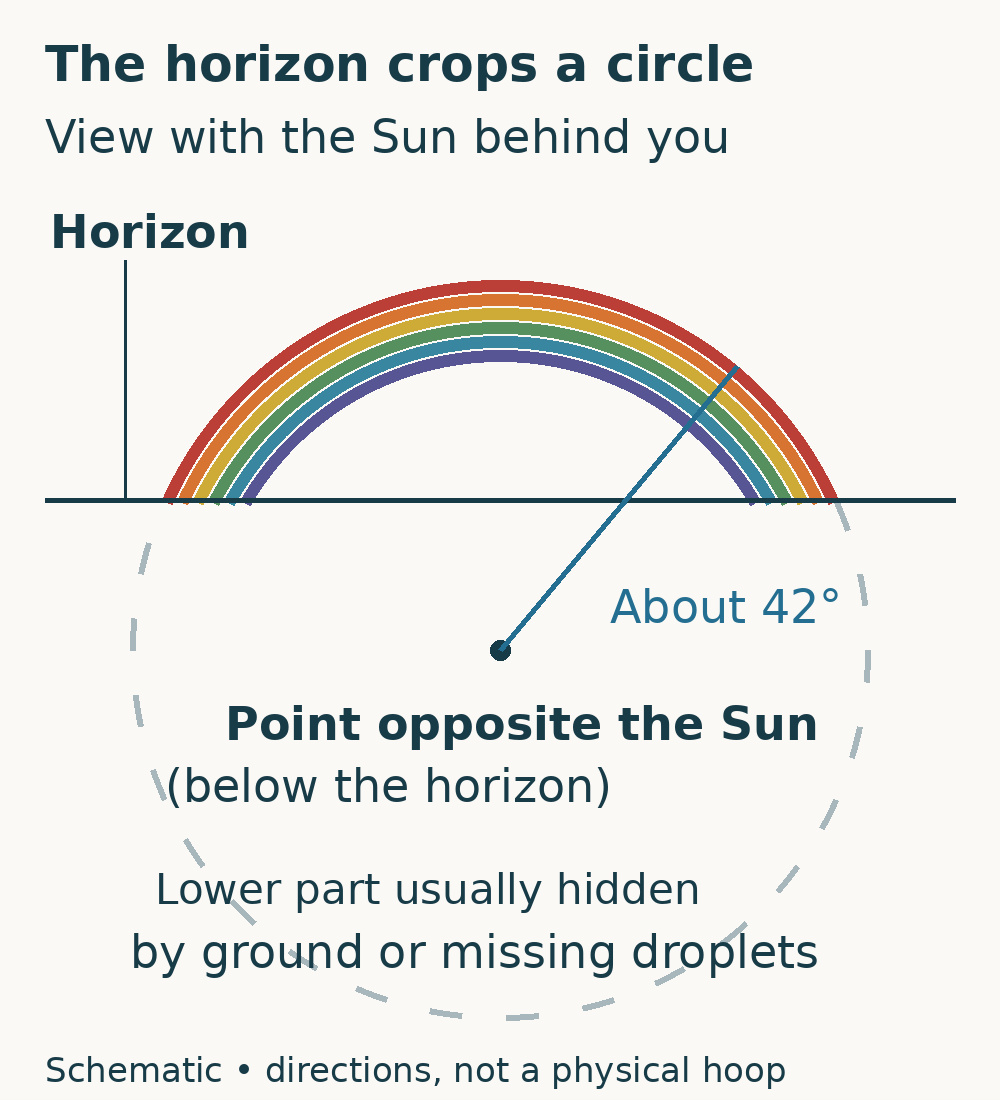
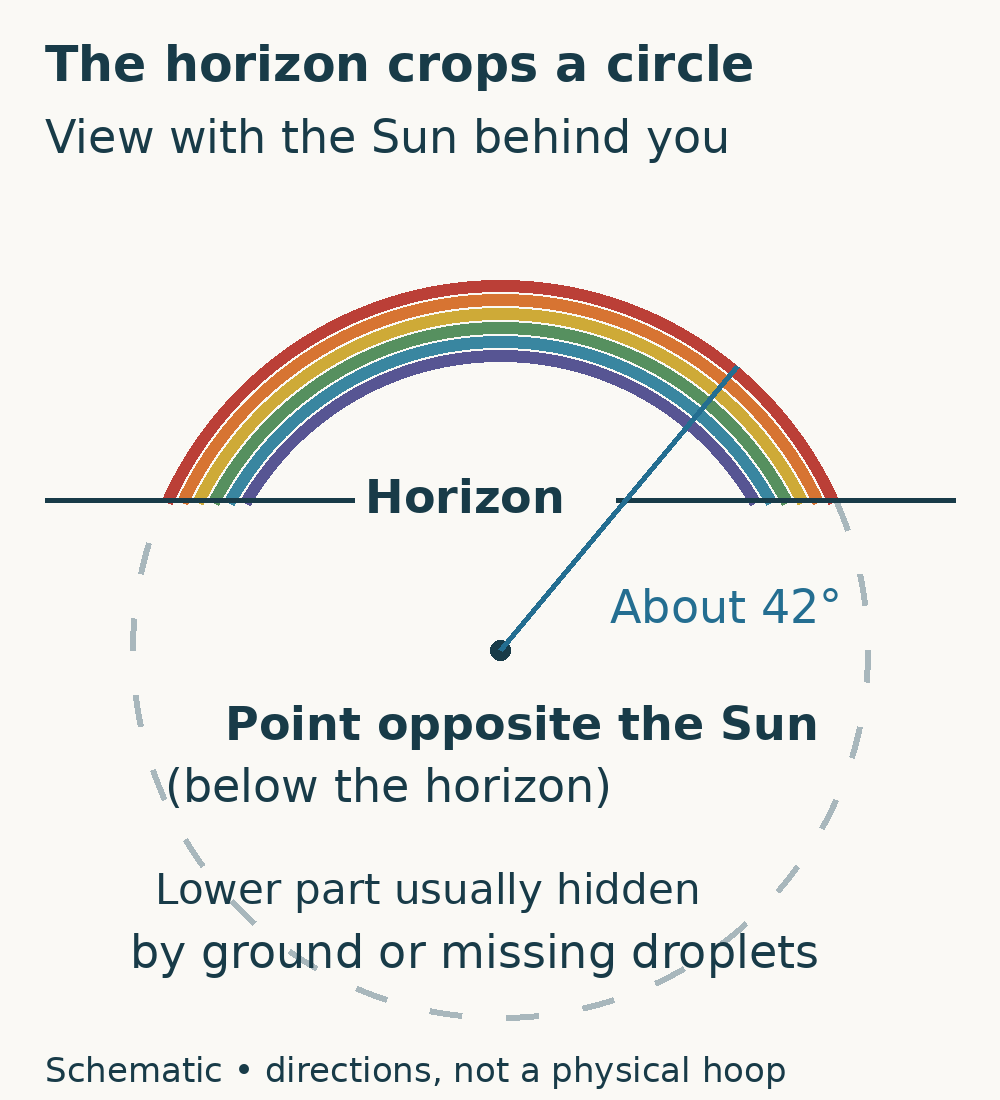
Address review of recovered lessons with ray concentration and clearer figures

Changed region(s): [[0.031, 0.1855, 0.248, 0.2473], [0.341, 0.4327, 0.62, 0.4636]]

diff --git a/src/content/lessons/2026/why-every-rainbow-is-a-circle/teen.md b/src/content/lessons/2026/why-every-rainbow-is-a-circle/teen.md
@@ -3,9 +3,9 @@ title: Why You Cannot Catch the End of a Rainbow
 description: The coloured arch is part of a circle built around your viewpoint, not something standing in a field.
 takeaway: A rainbow follows your viewpoint because your eyes select light arriving at particular angles from water
   droplets.
-question: What would you need to see the lower part of a rainbow’s circle from an aircraft?
-answer: Sunlit water droplets would need to be visible below you at the right viewing angles. Being high up helps,
-  but height alone does not create the missing colours.
+question: Why does moving across a field change which droplets make the rainbow you see?
+answer: The useful viewing angles are measured from your eyes. Moving changes your viewpoint, so a different set
+  of droplets sends the rainbow light towards you.
 searchTerms:
 - rainbow full circle
 - why rainbows move
@@ -26,13 +26,13 @@ figure:
     portion. From an elevated viewpoint a complete circle can be seen if illuminated droplets are present below
     the observer. The ring represents directions, not droplets arranged in a physical hoop.
 activity:
-  prompt: You move sideways while looking at a rainbow. Which explanation fits what happens?
+  prompt: The Sun is behind you on a flight. Does being high above the ground guarantee a full-circle rainbow?
   options:
-  - Different droplets now send rainbow light to your eyes
-  - The same coloured droplets move sideways with you
-  answer: 0
-  explanation: The useful angles are measured from your eyes. Move your eyes and a different set of droplets can
-    send you the right light; the rain does not need to follow you.
+  - Yes, altitude is enough
+  - No, altitude is not enough
+  answer: 1
+  explanation: A full circle also needs sunlit droplets visible below you at the right viewing angles. Height can
+    open the view, but it does not supply those droplets or the light.
 ---
 A rainbow seems to end behind a nearby tree. Could you run round the tree and stand inside the colours?
 

diff --git a/src/content/lessons/2026/why-a-day-is-longer-than-earths-spin/adult.md b/src/content/lessons/2026/why-a-day-is-longer-than-earths-spin/adult.md
@@ -18,14 +18,16 @@ figure:
   width: 1000
   height: 1100
   afterParagraph: 1
-  alt: After one star-relative spin, Earth has moved along its orbit. The same surface marker must turn farther
-    to face the Sun.
-  caption: One spin restores the star alignment. A little more rotation restores solar noon. Orbit advance is greatly
-    exaggerated.
-  description: Top view, not to scale. At the first solar noon a surface marker faces the Sun. Earth then advances
-    along its orbit while making one complete rotation relative to distant stars. The marker points in its original
-    direction, but the Sun now lies in a different direction from Earth. Continuing the rotation brings the marker
-    back into alignment with the Sun. The real extra turn is about one degree, not the large angle drawn.
+  alt: A fixed Sun and two Earth positions show orbital advance. At the second position, one spin leaves the marker
+    misaligned; an extra turn faces the Sun.
+  caption: The Sun stays fixed while Earth advances. Orange marks one full spin; green marks the extra turn back
+    towards the Sun. Orbital advance is greatly exaggerated.
+  description: Top view, not to scale. At position 1, a surface marker faces the fixed Sun at solar noon. Earth
+    advances along the orbital arc to position 2 while making one full rotation relative to distant stars. The orange
+    marker again points left, parallel to its initial direction, but misses the Sun. A further turn brings the green
+    marker into alignment with the Sun. Orange and green at position 2 show successive orientations, not two simultaneous
+    markers. The real daily orbital advance is about one degree; the much larger drawn angle makes the changing
+    alignment visible.
 ---
 Earth finishes a spin in about 23 hours 56 minutes. Your clock still has almost four minutes to run before completing a day. Where did the difference come from?
 

diff --git a/src/content/lessons/2026/why-a-day-is-longer-than-earths-spin/teen.md b/src/content/lessons/2026/why-a-day-is-longer-than-earths-spin/teen.md
@@ -17,14 +17,16 @@ figure:
   width: 1000
   height: 1100
   afterParagraph: 1
-  alt: After one star-relative spin, Earth has moved along its orbit. The same surface marker must turn farther
-    to face the Sun.
-  caption: One spin restores the star alignment. A little more rotation restores solar noon. Orbit advance is greatly
-    exaggerated.
-  description: Top view, not to scale. At the first solar noon a surface marker faces the Sun. Earth then advances
-    along its orbit while making one complete rotation relative to distant stars. The marker points in its original
-    direction, but the Sun now lies in a different direction from Earth. Continuing the rotation brings the marker
-    back into alignment with the Sun. The real extra turn is about one degree, not the large angle drawn.
+  alt: A fixed Sun and two Earth positions show orbital advance. At the second position, one spin leaves the marker
+    misaligned; an extra turn faces the Sun.
+  caption: The Sun stays fixed while Earth advances. Orange marks one full spin; green marks the extra turn back
+    towards the Sun. Orbital advance is greatly exaggerated.
+  description: Top view, not to scale. At position 1, a surface marker faces the fixed Sun at solar noon. Earth
+    advances along the orbital arc to position 2 while making one full rotation relative to distant stars. The orange
+    marker again points left, parallel to its initial direction, but misses the Sun. A further turn brings the green
+    marker into alignment with the Sun. Orange and green at position 2 show successive orientations, not two simultaneous
+    markers. The real daily orbital advance is about one degree; the much larger drawn angle makes the changing
+    alignment visible.
 activity:
   prompt: Imagine Earth kept spinning but no longer travelled around the Sun. What would happen to the gap between
     a spin and a solar day?

diff --git a/src/content/lessons/2026/why-every-rainbow-is-a-circle/adult.md b/src/content/lessons/2026/why-every-rainbow-is-a-circle/adult.md
@@ -34,6 +34,12 @@ Sunlight entering a water droplet bends, reflects inside it and bends again on l
 
 For a primary rainbow, the light reaching your eye is especially concentrated near particular angles: red appears about 42 degrees from the direction directly opposite the Sun, with violet at a slightly smaller angle. The droplets send light in many directions; the rainbow is the bright concentration, not the only light they return.
 
+## Why the light gathers near 42 degrees
+
+Follow parallel rays of one colour into a round droplet, shifting their entry points from the middle towards the edge. After one internal reflection, their exit directions swing farther from the exact backward direction, reach a maximum angle, then swing back. For red light, that turning point is near 42 degrees.
+
+Near the turning point, changing where a ray enters barely changes its exit angle. Many incoming rays therefore emerge within a narrow range of directions, concentrating light into a bright bow. Other rays return at smaller angles, but this one-reflection path has an outer angular limit. That helps explain the primary bow's sharp outer edge and softer inner edge. It does not mean the sky beyond the bow receives no other light.
+
 ## An angle can draw a circle
 
 Picture a line from the Sun through your eye and onwards. Its far end points towards the **antisolar point**, directly opposite the Sun. Now keep your gaze about 42 degrees away from that line while sweeping it all the way round. The possible directions trace a circle.

diff --git a/src/content/lessons/2026/why-lakes-freeze-from-the-top-down/teen.md b/src/content/lessons/2026/why-lakes-freeze-from-the-top-down/teen.md
@@ -29,8 +29,8 @@ activity:
   prompt: Two samples of fresh liquid water are at 1°C and 4°C. If carefully layered without stirring, which is
     denser and tends to sit below?
   options:
-  - The 1°C water, because colder water is always denser
-  - The 4°C water, because fresh water is densest near 4°C
+  - The water at 1°C
+  - The water at 4°C
   answer: 1
   explanation: Colder water is not always denser. Below about 4°C, further cooling reduces fresh water’s density,
     so the 1°C sample can sit above the 4°C sample.
